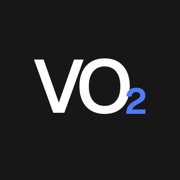
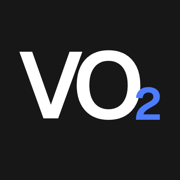
fix: enlarge the VO2 wordmark and shorten the tab title
The brand sat in a 12px menu row next to a 16px padded icon of the
same formula. The tab title is now just VO2.

Changed region(s): [[0.1111, 0.2778, 0.8889, 0.6667]]

diff --git a/src/routes/__root.tsx b/src/routes/__root.tsx
@@ -5,7 +5,7 @@ import { TanStackDevtools } from "@tanstack/react-devtools";
 
 import TanStackQueryDevtools from "../integrations/tanstack-query/devtools";
 import { ThemeProvider } from "#/components/theme-provider.tsx";
-import { APP_NAME, APP_TITLE } from "#/lib/brand.ts";
+import { APP_NAME } from "#/lib/brand.ts";
 import { TooltipProvider } from "@/components/ui/tooltip";
 
 import appCss from "../styles.css?url";
@@ -24,7 +24,7 @@ export const Route = createRootRouteWithContext<MyRouterContext>()({
         name: "viewport",
         content: "width=device-width, initial-scale=1, viewport-fit=cover",
       },
-      { title: APP_TITLE },
+      { title: APP_NAME },
       { name: "theme-color", content: "#171717" },
       { name: "apple-mobile-web-app-title", content: APP_NAME },
       { name: "apple-mobile-web-app-status-bar-style", content: "black-translucent" },
@@ -35,6 +35,7 @@ export const Route = createRootRouteWithContext<MyRouterContext>()({
         href: appCss,
       },
       { rel: "manifest", href: "/manifest.webmanifest" },
+      { rel: "icon", href: "/icon-32.png", type: "image/png", sizes: "32x32" },
       { rel: "icon", href: "/icon-192.png", type: "image/png", sizes: "192x192" },
       { rel: "apple-touch-icon", href: "/apple-touch-icon.png" },
     ],

diff --git a/src/components/vo2-mark.tsx b/src/components/vo2-mark.tsx
@@ -5,15 +5,15 @@ type Vo2MarkProps = {
   className?: string;
 };
 
-/** App icon: VO₂ lab formula on the dark tile. */
+/** App icon tile. Use only in collapsed chrome; the wordmark is the expanded brand. */
 export function Vo2Mark({ className }: Vo2MarkProps) {
   return (
     <img
       src="/icon-192.png"
       alt=""
-      width={16}
-      height={16}
-      className={cn("size-4 shrink-0 rounded-[5px]", className)}
+      width={32}
+      height={32}
+      className={cn("size-8 shrink-0 rounded-md", className)}
     />
   );
 }
@@ -25,7 +25,7 @@ export function Vo2Wordmark({ className }: Vo2MarkProps) {
       <span className="sr-only">{APP_NAME}</span>
       <span aria-hidden="true">
         VO
-        <span className="relative top-[0.32em] -ml-px text-[0.62em] font-semibold text-ds-blue-700">
+        <span className="relative top-[0.28em] -ml-px text-[0.7em] font-semibold text-ds-blue-700">
           2
         </span>
       </span>

diff --git a/src/components/signed-out-page.tsx b/src/components/signed-out-page.tsx
@@ -5,7 +5,7 @@ import { MonitorIcon, MoonIcon, SunIcon } from "lucide-react";
 import { useTheme } from "next-themes";
 
 import { SignInPanel } from "#/components/sync-panel.tsx";
-import { Vo2Mark, Vo2Wordmark } from "#/components/vo2-mark.tsx";
+import { Vo2Wordmark } from "#/components/vo2-mark.tsx";
 import { APP_NAME } from "#/lib/brand.ts";
 import { Button } from "@/components/ui/button";
 
@@ -19,8 +19,7 @@ export function SignedOutPage() {
   return (
     <div className="flex min-h-dvh flex-col bg-background">
       <header className="flex h-12 shrink-0 items-center justify-between px-4 pt-[max(0px,env(safe-area-inset-top))] sm:px-6">
-        <div className="flex items-center gap-2 text-sm font-medium">
-          <Vo2Mark className="size-4" />
+        <div className="flex items-center text-lg font-semibold">
           <Vo2Wordmark />
         </div>
         <ThemeCycleButton />

diff --git a/src/components/app-sidebar.tsx b/src/components/app-sidebar.tsx
@@ -95,9 +95,9 @@ export function AppSidebar() {
         <SidebarHeader>
           <SidebarMenu>
             <SidebarMenuItem>
-              <SidebarMenuButton tooltip={APP_NAME} render={<Link to="/" />}>
-                <Vo2Mark />
-                <Vo2Wordmark />
+              <SidebarMenuButton size="lg" tooltip={APP_NAME} render={<Link to="/" />}>
+                <Vo2Mark className="hidden group-data-[collapsible=icon]:block" />
+                <Vo2Wordmark className="text-lg font-semibold group-data-[collapsible=icon]:hidden" />
               </SidebarMenuButton>
             </SidebarMenuItem>
           </SidebarMenu>

diff --git a/src/lib/brand.ts b/src/lib/brand.ts
@@ -1,4 +1,2 @@
 /** User-facing product name. Local DB/auth identifiers stay `vo` so existing setups keep working. */
 export const APP_NAME = "VO2";
-export const APP_TAGLINE = "Strava calendar";
-export const APP_TITLE = `${APP_NAME} — ${APP_TAGLINE}`;
